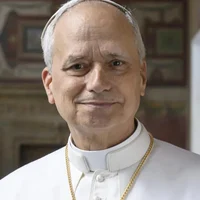
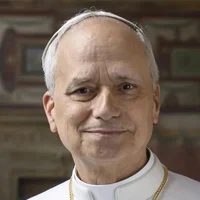
style: SEO titles use middot/du, slim home daily, refresh pope photos
- replace " | " separator with " · " across all page titles, switch to
  "Sommaire du", "Panorama du", "Glossaire du", "Recherche dans le",
  "À propos du", "Concordance de" forms for index/utility pages
- /ccc daily paragraph: drop the § glyph and "Lire le contexte →" link;
  hoist the "Paragraphe du jour" eyebrow above the row so the number
  aligns with the top of the prose
- regenerate static/img/popes/{slug}-{200,400}.webp from new zoomed
  source JPEGs (à propos page hero portraits)

diff --git a/src/routes/+page.svelte b/src/routes/+page.svelte
@@ -46,14 +46,14 @@
 </script>
 
 <svelte:head>
-	<title>Catéchisme de l'Église Catholique | Édition française définitive</title>
+	<title>Catéchisme de l'Église Catholique · Édition française définitive</title>
 	<meta
 		name="description"
 		content="Édition française définitive du Catéchisme de l'Église Catholique. Lecture, recherche et navigation par paragraphe, référence biblique et thème."
 	/>
 	<meta
 		property="og:title"
-		content="Catéchisme de l'Église Catholique | Édition française définitive"
+		content="Catéchisme de l'Église Catholique · Édition française définitive"
 	/>
 	<meta
 		property="og:description"
@@ -122,21 +122,17 @@
 		<!-- Daily paragraph -->
 		{#if data.paragraph}
 			<section class="daily reveal r-daily" aria-labelledby="daily-heading">
+				<h2 id="daily-heading" class="daily-eyebrow">Paragraphe du jour</h2>
 				<div class="daily-row">
 					<a
 						href="/ccc/{data.dailyNumber}"
 						class="daily-mark"
 						aria-label="Lire le paragraphe {data.dailyNumber} dans son contexte"
 					>
-						<span class="section-mark">§</span>
 						<span class="section-num">{data.dailyNumber}</span>
 					</a>
 					<div class="daily-text">
-						<h2 id="daily-heading" class="daily-eyebrow">Paragraphe du jour</h2>
 						<div class="prose-teaser">{@html teaserHtml}</div>
-						<a class="daily-link" href="/ccc/{data.dailyNumber}">
-							Lire le contexte <span aria-hidden="true">→</span>
-						</a>
 					</div>
 				</div>
 			</section>
@@ -285,29 +281,25 @@
 	}
 	.daily-mark {
 		display: flex;
-		align-items: baseline;
+		align-self: start;
 		gap: 0.35em;
 		font-family: var(--font-heading);
 		color: var(--color-accent);
 		text-decoration: none;
 		line-height: 1;
-		padding-top: 0.05em;
 		transition: color 120ms ease;
 	}
 	.daily-mark:hover {
 		color: var(--color-accent-text);
-	}
-	.section-mark {
-		font-size: 1.5rem;
-		font-weight: 400;
-		font-style: italic;
-		letter-spacing: -0.02em;
 	}
 	.section-num {
 		font-size: 1.2rem;
 		font-weight: 600;
 		letter-spacing: 0.01em;
 		font-variant-numeric: oldstyle-nums;
+		/* Align cap-height with the first line of prose-teaser
+		   (1rem * 1.7 line-height ≈ 1.7rem; nudge to visual cap top). */
+		margin-top: 0.32rem;
 	}
 
 	.daily-text {
@@ -328,21 +320,6 @@
 	   it can lay out as a paragraph and respect line-height. */
 	.prose-teaser :global(span) {
 		display: inline;
-	}
-	.daily-link {
-		display: inline-block;
-		margin-top: 0.85rem;
-		font-family: var(--font-ui);
-		font-size: 0.7rem;
-		font-weight: 500;
-		letter-spacing: 0.22em;
-		text-transform: uppercase;
-		color: var(--color-accent);
-		text-decoration: none;
-		transition: opacity 120ms ease;
-	}
-	.daily-link:hover {
-		opacity: 0.75;
 	}
 
 	/* Founding quotation — quiet epigraph with a small inked signature.
@@ -512,15 +489,14 @@
 		}
 		.daily-mark {
 			justify-content: center;
+			margin-top: 0;
 		}
 		.daily-text {
 			text-align: left;
 		}
-		.section-mark {
-			font-size: 1.9rem;
-		}
 		.section-num {
 			font-size: 1rem;
+			margin-top: 0;
 		}
 		.prose-teaser {
 			font-size: 0.95rem;

diff --git a/src/routes/a-propos/+page.svelte b/src/routes/a-propos/+page.svelte
@@ -3,12 +3,12 @@
 </script>
 
 <svelte:head>
-	<title>À propos · Catéchisme de l'Église Catholique</title>
+	<title>À propos du Catéchisme de l'Église Catholique</title>
 	<meta
 		name="description"
 		content="Le Catéchisme de l'Église Catholique en français, avec recherche plein texte, concordance biblique et glossaire théologique. Gratuit, sans compte, sans publicité."
 	/>
-	<meta property="og:title" content="À propos · Catéchisme de l'Église Catholique" />
+	<meta property="og:title" content="À propos du Catéchisme de l'Église Catholique" />
 	<meta
 		property="og:description"
 		content="Le Catéchisme de l'Église Catholique en français, avec recherche plein texte, concordance biblique et glossaire théologique. Gratuit, sans compte, sans publicité."

diff --git a/src/routes/ccc/[part]/+page.svelte b/src/routes/ccc/[part]/+page.svelte
@@ -15,12 +15,12 @@
 </script>
 
 <svelte:head>
-	<title>{data.part.title} | Catéchisme de l'Église Catholique</title>
+	<title>{data.part.title} · Catéchisme de l'Église Catholique</title>
 	<meta
 		name="description"
 		content={data.part.number
 			? `Partie ${data.part.number} : ${data.part.title}. ${data.part.sections.length} section${data.part.sections.length > 1 ? 's' : ''} | Catéchisme de l'Église Catholique.`
-			: `${data.part.title} | Catéchisme de l'Église Catholique.`}
+			: `${data.part.title} · Catéchisme de l'Église Catholique.`}
 	/>
 </svelte:head>
 

diff --git a/src/routes/ccc/[part]/[section]/+page.svelte b/src/routes/ccc/[part]/[section]/+page.svelte
@@ -17,7 +17,7 @@
 </script>
 
 <svelte:head>
-	<title>{data.section.title} | Catéchisme de l'Église Catholique</title>
+	<title>{data.section.title} · Catéchisme de l'Église Catholique</title>
 	<meta
 		name="description"
 		content={`${data.section.number ? `Section ${data.section.number} : ` : ''}${data.section.title} | ${data.part.title}. ${data.section.chapters.length} chapitre${data.section.chapters.length > 1 ? 's' : ''} | Catéchisme de l'Église Catholique.`}

diff --git a/src/routes/ccc/+page.svelte b/src/routes/ccc/+page.svelte
@@ -97,7 +97,7 @@
 </script>
 
 <svelte:head>
-	<title>Catéchisme de l'Église Catholique | Lire l'édition française complète</title>
+	<title>Catéchisme de l'Église Catholique · Lire l'édition française complète</title>
 	<meta
 		name="description"
 		content="Lisez le Catéchisme de l'Église Catholique en français : prologue, quatre parties, 2865 paragraphes. Recherche par mot-clé, référence biblique et thème."

diff --git a/src/routes/ccc/[part]/[section]/[chapter]/+page.svelte b/src/routes/ccc/[part]/[section]/[chapter]/+page.svelte
@@ -32,7 +32,7 @@
 </script>
 
 <svelte:head>
-	<title>{data.chapter.title} | Catéchisme de l'Église Catholique</title>
+	<title>{data.chapter.title} · Catéchisme de l'Église Catholique</title>
 	<meta
 		name="description"
 		content={`${data.chapter.number ? `Chapitre ${data.chapter.number} : ` : ''}${data.chapter.title} | ${data.chapter.section_title}. Catéchisme de l'Église Catholique.`}

diff --git a/src/routes/ccc/[part]/[section]/[chapter]/[article]/+page.svelte b/src/routes/ccc/[part]/[section]/[chapter]/[article]/+page.svelte
@@ -59,7 +59,7 @@
 </script>
 
 <svelte:head>
-	<title>{data.article.title} | Catéchisme de l'Église Catholique</title>
+	<title>{data.article.title} · Catéchisme de l'Église Catholique</title>
 	<meta
 		name="description"
 		content={`${data.article.number ? `Article ${data.article.number} : ` : ''}${data.article.title} | ${data.chapter.title}. Catéchisme de l'Église Catholique.`}

diff --git a/src/routes/ccc/panorama/+page.svelte b/src/routes/ccc/panorama/+page.svelte
@@ -43,7 +43,7 @@
 </script>
 
 <svelte:head>
-	<title>Panorama | Catéchisme de l'Église Catholique</title>
+	<title>Panorama du Catéchisme de l'Église Catholique</title>
 	<meta
 		name="description"
 		content="Panorama du Catéchisme de l'Église Catholique : prologue, quatre parties, sections, chapitres et articles vus d'un seul coup d'œil."

diff --git a/src/routes/ccc/sommaire/+page.svelte b/src/routes/ccc/sommaire/+page.svelte
@@ -75,7 +75,7 @@
 </script>
 
 <svelte:head>
-	<title>Sommaire | Catéchisme de l'Église Catholique</title>
+	<title>Sommaire du Catéchisme de l'Église Catholique</title>
 	<meta
 		name="description"
 		content="Table des matières complète du Catéchisme de l'Église Catholique : prologue, quatre parties, sections, chapitres et articles."

diff --git a/src/routes/glossaire/[term]/+page.svelte b/src/routes/glossaire/[term]/+page.svelte
@@ -35,7 +35,7 @@
 </script>
 
 <svelte:head>
-	<title>{data.entry.term} | Glossaire | Catéchisme de l'Église Catholique</title>
+	<title>{data.entry.term}, glossaire du Catéchisme de l'Église Catholique</title>
 	{#if data.entry.definition}
 		<meta name="description" content={data.entry.definition.slice(0, 160)} />
 	{/if}

diff --git a/src/routes/glossaire/+page.svelte b/src/routes/glossaire/+page.svelte
@@ -4,7 +4,7 @@
 </script>
 
 <svelte:head>
-	<title>Glossaire | Catéchisme de l'Église Catholique</title>
+	<title>Glossaire du Catéchisme de l'Église Catholique</title>
 	<meta
 		name="description"
 		content="Glossaire thématique du Catéchisme : {data.totalEntries} termes regroupés en {data

diff --git a/src/routes/glossaire/c/[cluster]/+page.svelte b/src/routes/glossaire/c/[cluster]/+page.svelte
@@ -4,7 +4,7 @@
 </script>
 
 <svelte:head>
-	<title>{data.cluster.label} | Glossaire | Catéchisme de l'Église Catholique</title>
+	<title>{data.cluster.label}, glossaire du Catéchisme de l'Église Catholique</title>
 	<meta name="description" content={data.cluster.description} />
 </svelte:head>
 
